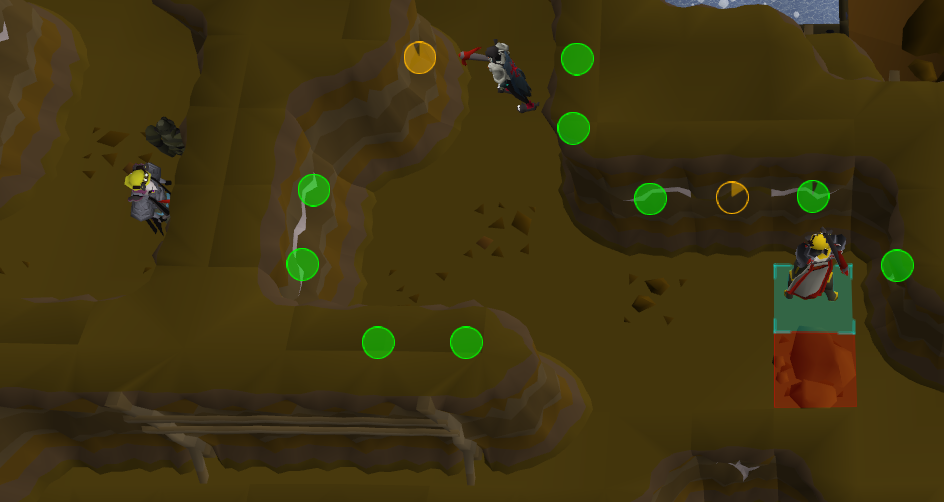
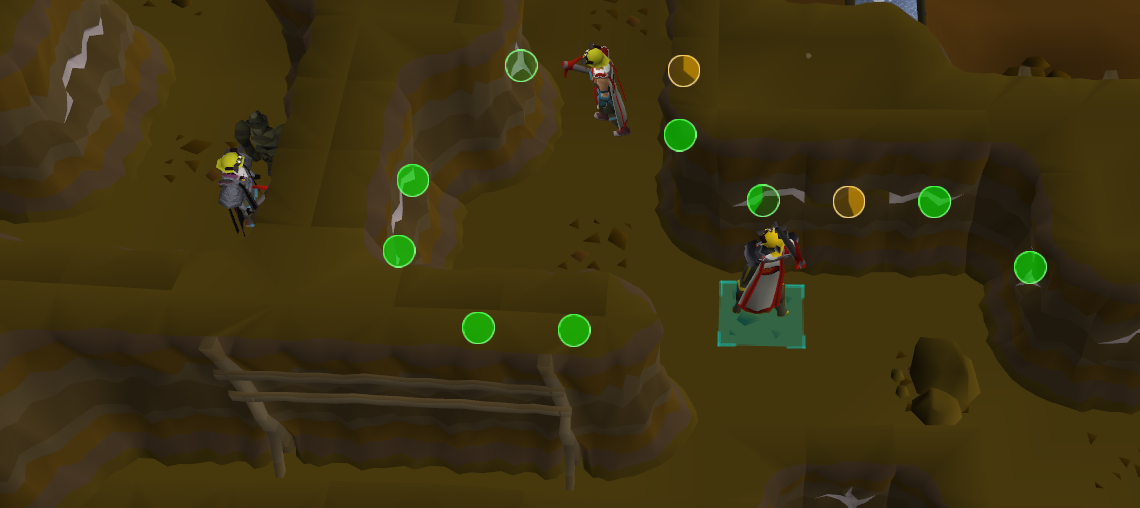
Improve pie rendering

diff --git a/src/main/java/tictac7x/motherlode/oreveins/OreVeins.java b/src/main/java/tictac7x/motherlode/oreveins/OreVeins.java
@@ -137,12 +137,18 @@ public class OreVeins extends Overlay {
 
     private void renderPie(final Graphics2D graphics, final WallObject object, final Color color, final float progress) {
         try {
-            final ProgressPieComponent progressPieComponent = new ProgressPieComponent();
-            progressPieComponent.setPosition(object.getCanvasLocation(160));
-            progressPieComponent.setProgress(progress);
-            progressPieComponent.setBorderColor(new Color(color.getRed(), color.getGreen(), color.getBlue(), 255));
-            progressPieComponent.setFill(new Color(color.getRed(), color.getGreen(), color.getBlue(), Math.max(color.getAlpha() - 20, 0)));
-            progressPieComponent.render(graphics);
+            final ProgressPieComponent progressPieComponentBackground = new ProgressPieComponent();
+            progressPieComponentBackground.setPosition(object.getCanvasLocation(160));
+            progressPieComponentBackground.setProgress(1);
+            progressPieComponentBackground.setFill(new Color(color.getRed(), color.getGreen(), color.getBlue(), Math.max(color.getAlpha() - 100, 0)));
+            progressPieComponentBackground.render(graphics);
+
+            final ProgressPieComponent progressPieComponentTimer = new ProgressPieComponent();
+            progressPieComponentTimer.setPosition(object.getCanvasLocation(160));
+            progressPieComponentTimer.setProgress(progress);
+            progressPieComponentTimer.setBorderColor(color);
+            progressPieComponentTimer.setFill(new Color(color.getRed(), color.getGreen(), color.getBlue(), Math.max(color.getAlpha() - 20, 0)));
+            progressPieComponentTimer.render(graphics);
         } catch (final Exception ignored) {}
     }
 
